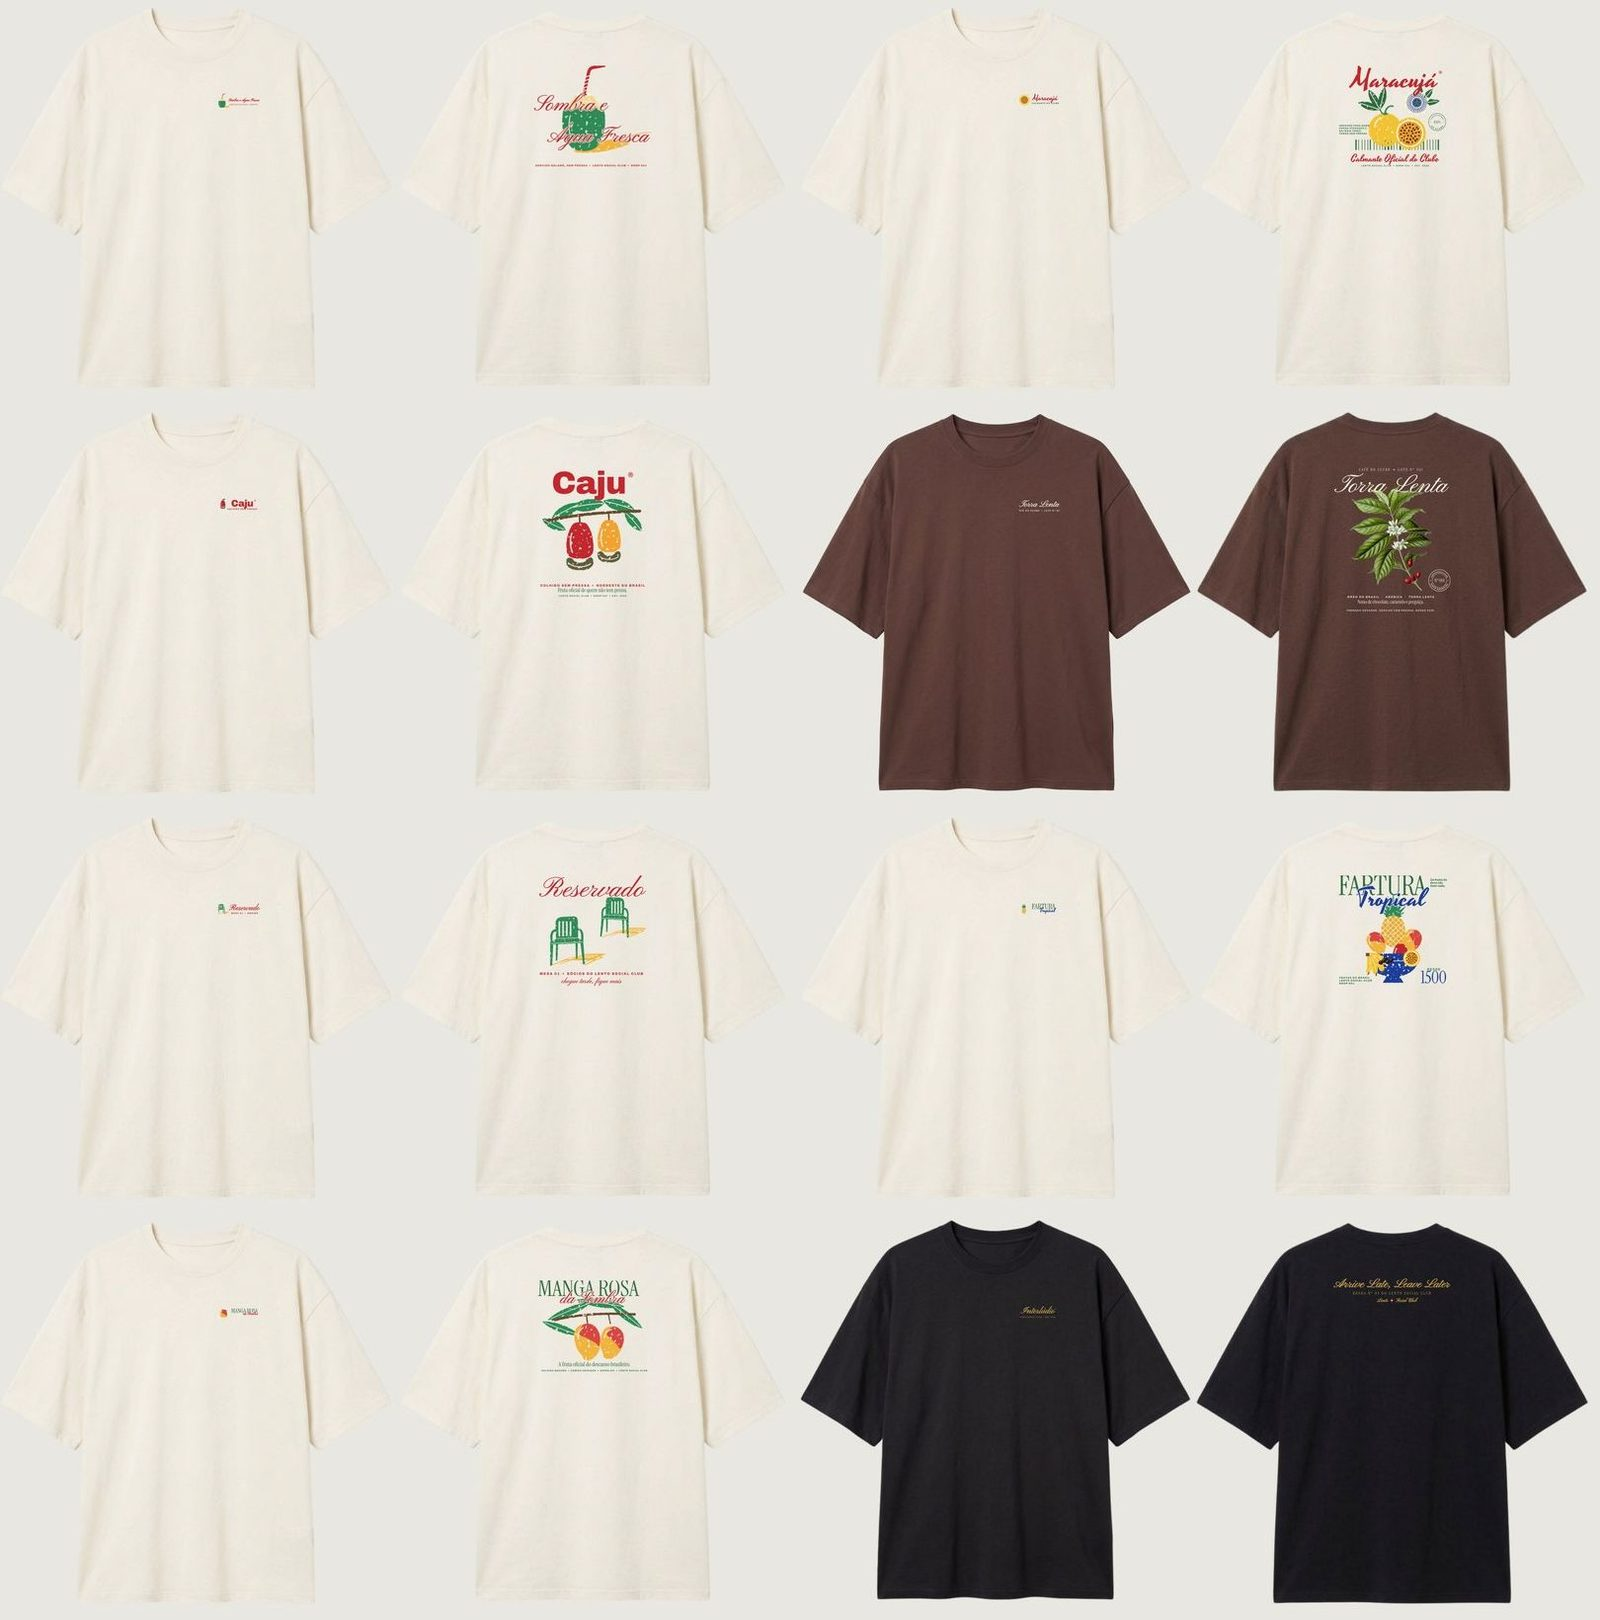
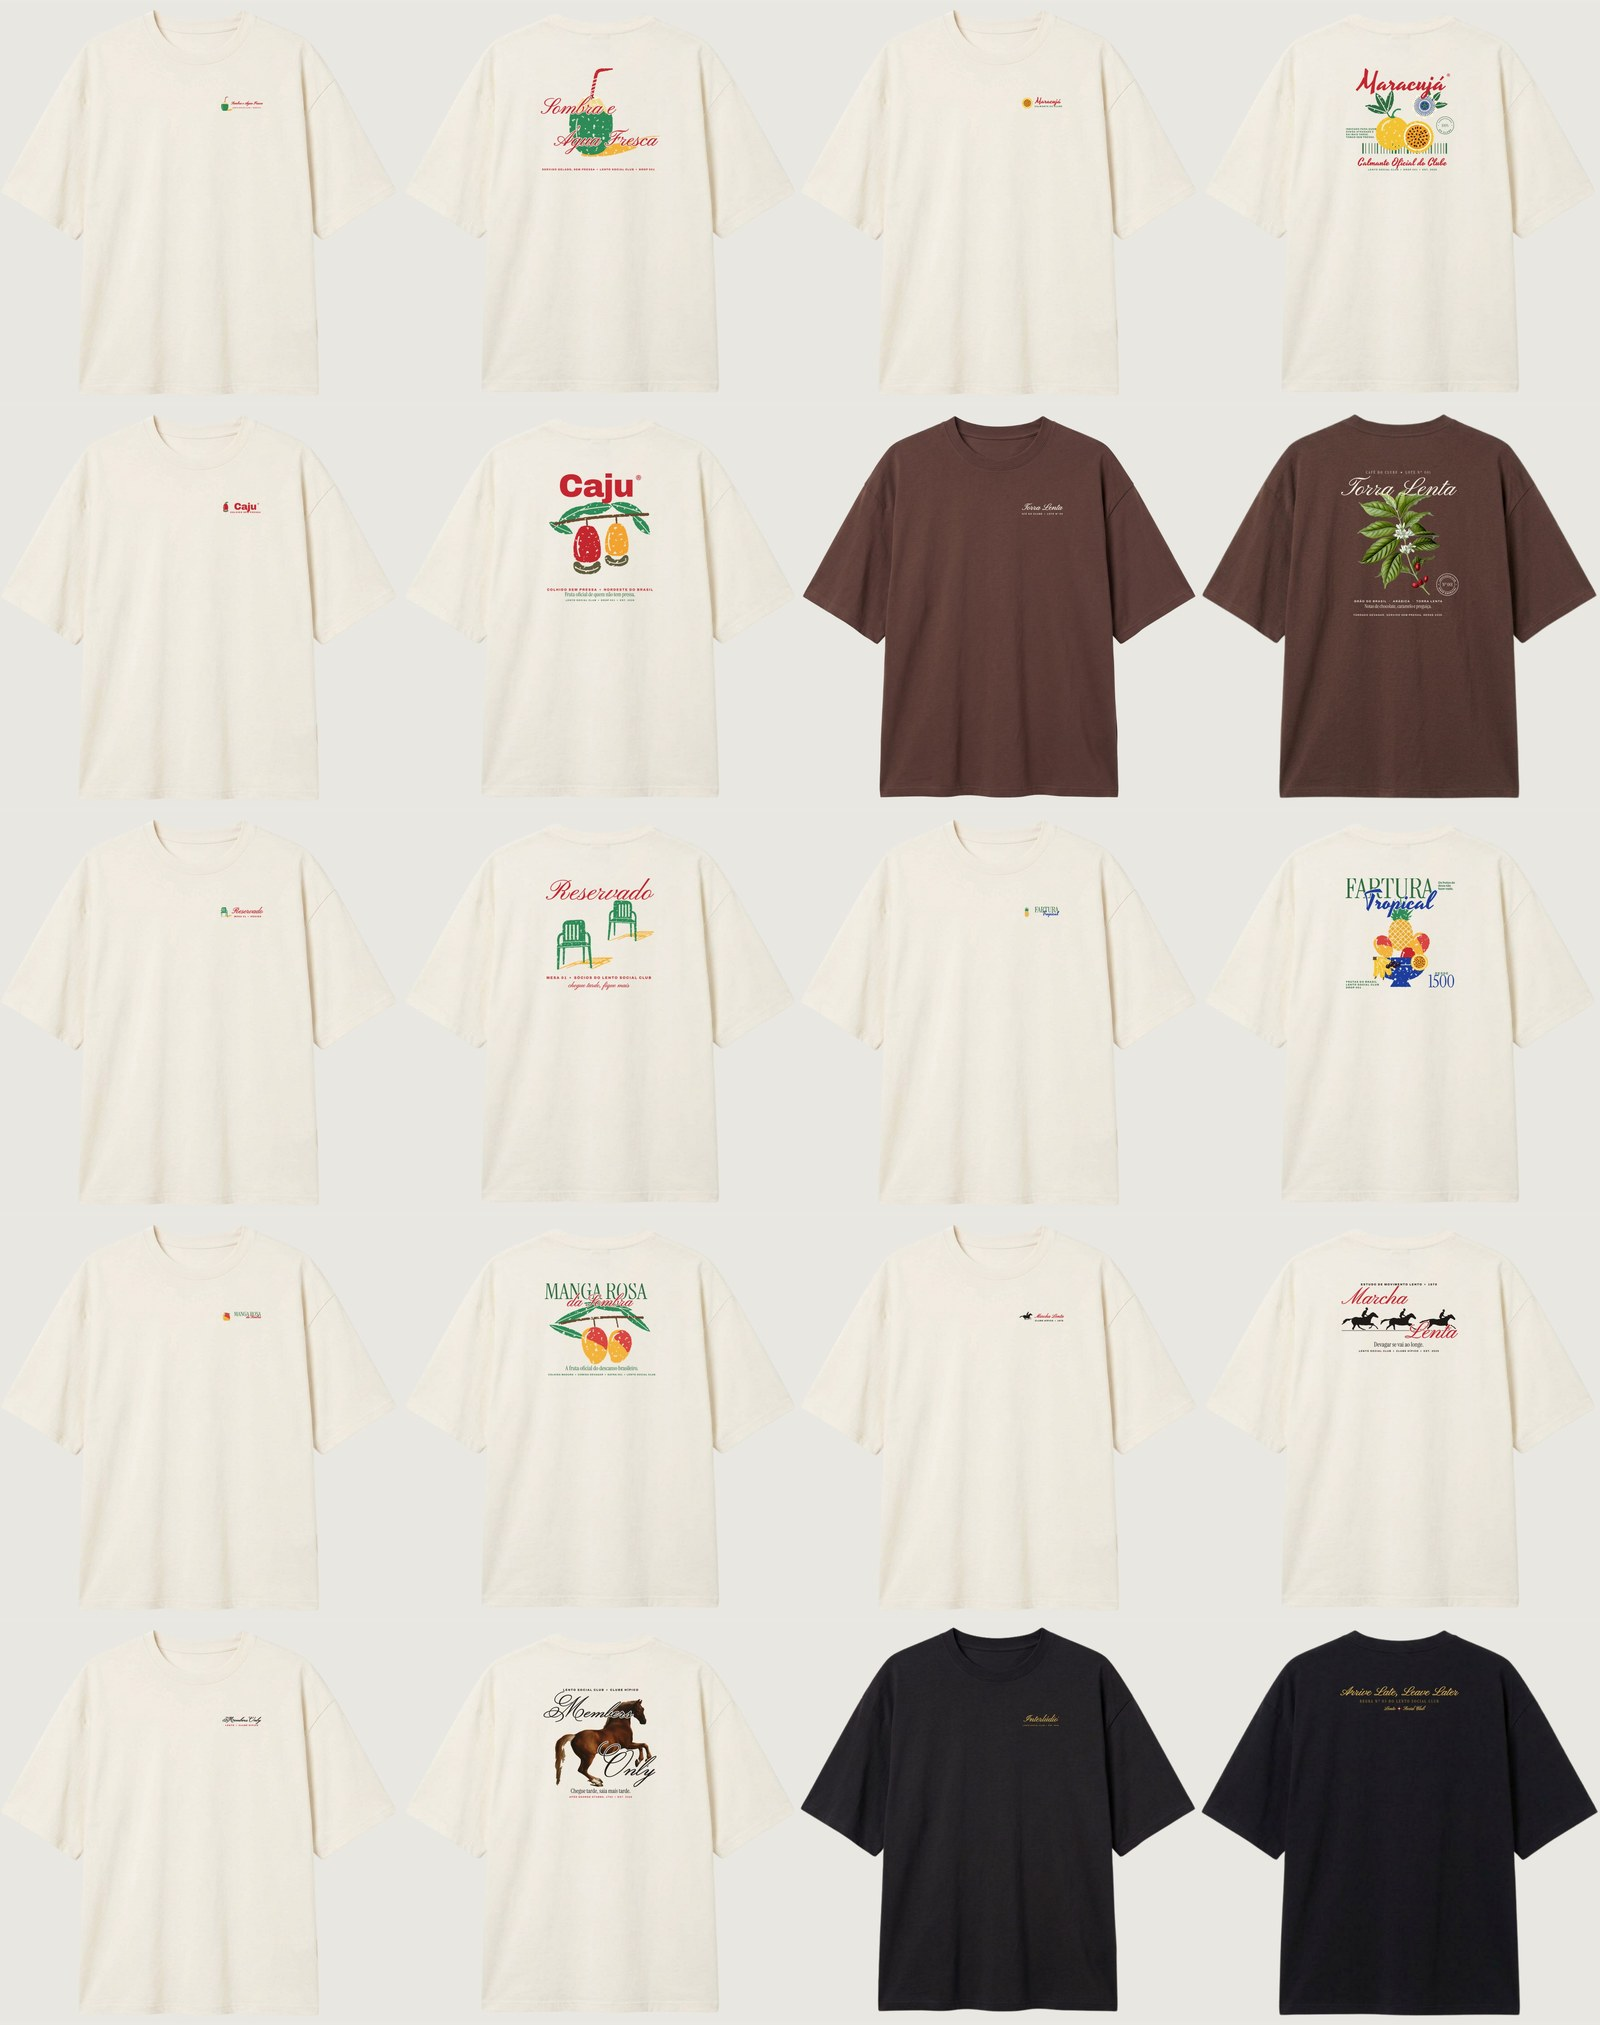
Drop 001: estampas Marcha Lenta e Clássico Members Only
Completa as 10 estampas do drop: arquivos de impressão, fotos em alta
para a loja (Classic e Suedine), entradas no manifesto de fotos e
prévias/README atualizados com IDs, SKUs e créditos de domínio público
(Muybridge 1878, Stubbs 1762).

Claude-Session: https://claude.ai/code/session_015ZvEWSfDUMfH5QJk5bJaBm

diff --git a/design/drop-001/README.md b/design/drop-001/README.md
@@ -2,7 +2,13 @@
 
 Estampas do primeiro drop. Técnica: DTF. Arquivos de impressão: PNG transparente a 300 DPI, sem semitransparência. Todos passaram por um controle de impressão: sem pontinhos ou furos menores que 0,3 mm e com traços de pelo menos 0,4 mm, exceto pontas de caligrafia.
 
-As ilustrações em linogravura (coco, cadeiras, caju, maracujá, manga e fruteira) foram desenhadas em vetor para este drop. O ramo de café é a gravura de *Köhler's Medizinal-Pflanzen* (1887, domínio público), recortada e com os frutos recoloridos. Fontes: Pinyon Script, Yesteryear, Instrument Serif e Archivo, todas com licença OFL (uso comercial liberado).
+As ilustrações em linogravura (coco, cadeiras, caju, maracujá, manga e fruteira) foram desenhadas em vetor para este drop. As demais imagens vêm de obras em domínio público:
+
+- **Café Torra Lenta (D04):** ramo de café de *Köhler's Medizinal-Pflanzen* (1887), recortado e com os frutos recoloridos.
+- **Marcha Lenta (D08):** silhuetas de *The Horse in Motion*, de Eadweard Muybridge (1878), recortadas quadro a quadro.
+- **Clássico Members Only (D09):** o cavalo de *Whistlejacket*, de George Stubbs (1762), recortado do fundo original.
+
+Fontes: Pinyon Script, Yesteryear, Instrument Serif e Archivo, todas com licença OFL (uso comercial liberado).
 
 Prévias: `previa-classic.jpg` e `previa-suedine.jpg`.
 
@@ -90,6 +96,28 @@ Arquivos: `D07-manga-frente.png` (frente) e `D07-manga-costas.png` (costas). Art
 | Oversized Suedine | Off-White | `8d919922-97db-4832-b1b6-f750476dec2b` | R$ 41,57 | PP `wyznlEL9` · P `7PCsA2Xu` · M `7jqdyj3c` · G `qvQy2Rla` · GG `2866Zy7v` · XG `N4vo4wiY` |
 
 `placement` Classic — frente: x 0.5565 · y 0.2367 · w 0.0962 · h 0.0223; costas: x 0.3619 · y 0.1659 · w 0.2762 · h 0.2299
+
+### D08 — Camiseta Marcha Lenta
+
+Arquivos: `D08-marcha-frente.png` (frente) e `D08-marcha-costas.png` (costas). Artes na YouDraw: frente `74429`, costas `74430`.
+
+| Base | Cor | ID do produto | Custo | SKUs |
+| --- | --- | --- | --- | --- |
+| Oversized Classic | Off-White | `02c4e611-cd50-40fe-89ea-62caf46de506` | R$ 30,63 | P `bkBh0dJi` · M `d1CAtQBj` · G `o01DAkMG` · GG `GGoLEL0e` · G1 `N2SHO9ry` · G2 `N6fTRiRg` |
+| Oversized Suedine | Off-White | `111f358f-b602-4da8-872f-cbde42fd7d84` | R$ 41,57 | PP `mypxRami` · P `mDRLXd5m` · M `TbDUDNyn` · G `YcAvN9Uf` · GG `usreBpeN` · XG `dyt83esb` |
+
+`placement` Classic — frente: x 0.5492 · y 0.2367 · w 0.1108 · h 0.0238; costas: x 0.3544 · y 0.1659 · w 0.2911 · h 0.1705
+
+### D09 — Camiseta Clássico Members Only
+
+Arquivos: `D09-classico-frente.png` (frente) e `D09-classico-costas.png` (costas). Artes na YouDraw: frente `74431`, costas `74432`.
+
+| Base | Cor | ID do produto | Custo | SKUs |
+| --- | --- | --- | --- | --- |
+| Oversized Classic | Off-White | `34ff029b-adec-4ae1-b8bc-ea03e10d3493` | R$ 30,63 | P `PNXYHNIs` · M `WT68OaS3` · G `TJmVERrK` · GG `9TYd8s5K` · G1 `TP779rXk` · G2 `Bsf3lD8h` |
+| Oversized Suedine | Off-White | `1ef83d1b-9b11-49e4-9a91-e93c45bf2b17` | R$ 41,57 | PP `eaGF7TyJ` · P `wCCU0kY0` · M `eKea4ayW` · G `eOSANQmW` · GG `9SZG0Zel` · XG `1gTWCFfW` |
+
+`placement` Classic — frente: x 0.5562 · y 0.2367 · w 0.0968 · h 0.0231; costas: x 0.359 · y 0.1659 · w 0.282 · h 0.2737
 
 ### D10 — Camiseta Interlúdio
 
